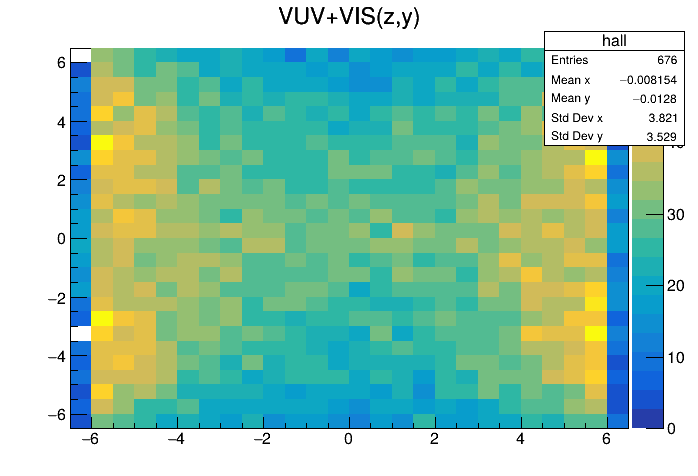
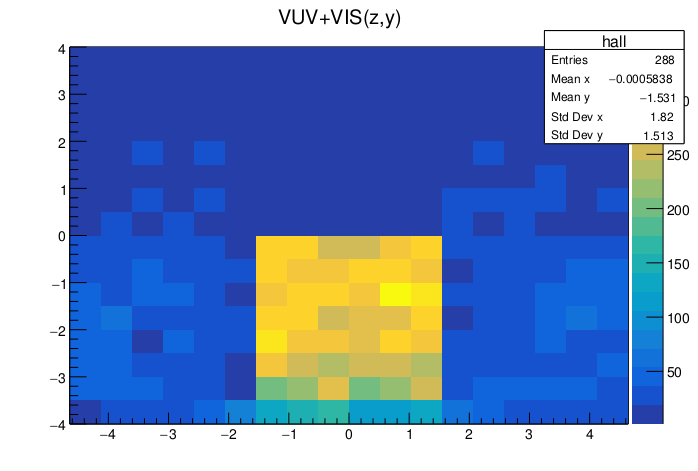
Adjust analysis logic for the new detector proportions

diff --git a/project/analysis/analysis.cpp b/project/analysis/analysis.cpp
@@ -8,15 +8,19 @@
 #include <vector>
 #include <TLegend.h>
 
-void analysis(std::string filename="../build/Data.root")
+void analysis(std::string filename="../build/Data_correct.root")
 {
     // Open file and get tree
     TFile *file = TFile::Open(filename.c_str());
     TTree *tree = (TTree*)file->Get("Primary_Hit");
 
-    // Create 2D histogram
-    TH2D *h2 = new TH2D("hvis","VIS(z,y)", 18, -4.5, 4.5, 16, -4, 4);
-    TH2D *h3 = new TH2D("huv","VUV(z,y)", 18, -4.5, 4.5, 16, -4, 4);
+    // Create 2D histogram for internal region
+    TH2D *hVisInt = new TH2D("hvis","VIS(z,y) - Internal", 18, -4.64103, 4.64103, 16, -4, 4);
+    TH2D *hUvInt = new TH2D("huv","VUV(z,y) - Internal",  18, -4.64103, 4.64103, 16, -4, 4);
+
+     // Create 2D histogram for external region
+    TH2D *hVisExt = new TH2D("hvis","VIS(z,y)  - External", 18, -4.272, 4.272, 16, -4, 4);
+    TH2D *hUvExt = new TH2D("huv","VUV(z,y) - External", 18, -4.272, 4.272, 16, -4, 4);
 
     // Fill the histogram
     Double_t z, y, f, f2;
@@ -27,50 +31,65 @@ void analysis(std::string filename="../build/Data.root")
 
     int number_files=1;
     float gain=40000.0/25000.0;
-    float ratio=5.0;
+    float ratio=1.0;
 
     Long64_t nentries = tree->GetEntries();
     for (Long64_t i=0; i<nentries; i++) 
     {
         tree->GetEntry(i);
 
-        if((z<(-1.547) || z>1.547))// && (y<(-3.5) || y<3.5) )
-        {
-            ratio=gain/number_files;
+        if((z>(-1.547) && z<1.547) && (y>(-3.5) && y<3.5))
+        {            
+            if(f>=1)
+            {
+                hVisInt->Fill(z, y,f*ratio);
+            }
+                
+            if(f2>=1) 
+            {
+                hUvInt->Fill(z,y,f2*ratio);
+            }
         }
         else
         {
-            ratio=1.0/number_files;
+            ratio = gain/number_files;
+            if(f>=1)
+            {
+                hVisExt->Fill(z, y,f*ratio);
+            }
+                
+            if(f2>=1) 
+            {
+                hUvExt->Fill(z,y,f2*ratio);
+            }
         }
-
-        if(f>=1)
-        {
-            h2->Fill(z, y,f*ratio);
-        }
-            
-        if(f2>=1) 
-        {
-            h3->Fill(z,y,f2*ratio);
-        } // fill with weight = f
     }
 
     // Draw heatmap
     TCanvas *c1 = new TCanvas();
-    h2->Draw("COLZ");  // COLZ = color map
-    c1->SaveAs("heatmapVIS.png");
+    hVisInt->Draw("COLZ");  // COLZ = color map
+    c1->SaveAs("heatmapVISInt.png");
 
     TCanvas *c2 = new TCanvas();
-    h3->Draw("COLZ");  // COLZ = color map
-    c2->SaveAs("heatmapUV.png");
+    hUvInt->Draw("COLZ");  // COLZ = color map
+    c2->SaveAs("heatmapUVInt.png");
+
+    TCanvas *c3 = new TCanvas();
+    hVisExt->Draw("COLZ");  // COLZ = color map
+    c3->SaveAs("heatmapVISExt.png");
+
+    TCanvas *c4 = new TCanvas();
+    hUvExt->Draw("COLZ");  // COLZ = color map
+    c4->SaveAs("heatmapUVExt.png");
 
    // --- Converter h2 para matriz ---
-    int nx = h2->GetNbinsX();
-    int ny = h2->GetNbinsY();
+    int nx = hVisExt->GetNbinsX();
+    int ny = hVisExt->GetNbinsY();
 
         // Criar histograma para o buffer
-    TH2D *h4 = new TH2D("hall","VUV+VIS(z,y)", nx, -4.5, 4.5, ny, -4, 4);
-    TH2D *hbuffer = new TH2D("hbuffer","UV/(UV+VIS)", nx, -4.5, 4.5, ny, -4, 4);
-    TH2D *hratio = new TH2D("hratio","UV/VIS", nx, -4.5, 4.5, ny, -4, 4);
+    TH2D *h4 = new TH2D("hall","VUV+VIS(z,y)", nx, -4.64103, 4.64103, ny, -4, 4);
+    TH2D *hbuffer = new TH2D("hbuffer","UV/(UV+VIS)", nx, -4.64103, 4.64103, ny, -4, 4);
+    TH2D *hratio = new TH2D("hratio","UV/VIS", nx, -4.64103, 4.64103, ny, -4, 4);
 
 
     std::vector<std::vector<double>> mat_uv(nx, std::vector<double>(ny,0));
@@ -88,18 +107,26 @@ void analysis(std::string filename="../build/Data.root")
     {
         for(int j=1; j<=ny; j++)
         {
-            mat_vis[i-1][j-1] = h2->GetBinContent(i,j);
-            mat_uv[i-1][j-1] = h3->GetBinContent(i,j);
+            if ((i > 6 && i < 13) && (j > 1 && j < ny)){
+                mat_vis[i-1][j-1] = hVisInt->GetBinContent(i,j);
+                mat_uv[i-1][j-1] = hUvInt->GetBinContent(i,j);
+            } else {
+                mat_vis[i-1][j-1] = hVisExt->GetBinContent(i,j);
+                mat_uv[i-1][j-1] = hUvExt->GetBinContent(i,j);
+            }
+            
             if(mat_vis[i-1][j-1]<cut_pe)
             {
                 mat_vis[i-1][j-1]=0;
             }
-             if(mat_uv[i-1][j-1]<cut_pe)
+            
+            if(mat_uv[i-1][j-1]<cut_pe)
             {
                 mat_uv[i-1][j-1]=0;
             }
+
             mat_all[i-1][j-1] = mat_uv[i-1][j-1] +  mat_vis[i-1][j-1];
-            buffer[i-1][j-1] = mat_uv[i-1][j-1]/(  mat_uv[i-1][j-1] + mat_vis[i-1][j-1] );
+            buffer[i-1][j-1] = mat_uv[i-1][j-1]/(mat_uv[i-1][j-1] + mat_vis[i-1][j-1] );
             myratio[i-1][j-1] = mat_uv[i-1][j-1]/(mat_vis[i-1][j-1] );
         }
     }
@@ -114,7 +141,6 @@ void analysis(std::string filename="../build/Data.root")
             h4->SetBinContent(i, j, mat_all[i-1][j-1]);
         }
     }
-
 
     int cont=0;
     for(int i=1; i<nx-1; i++)        
@@ -135,19 +161,19 @@ void analysis(std::string filename="../build/Data.root")
     std::cout << "MIN Light Yield: " << lightyield_min << std::endl;
 
     // Plotar
-    TCanvas *c3 = new TCanvas();
+    TCanvas *c5 = new TCanvas();
     hbuffer->GetZaxis()->SetRangeUser(0.0,1.0); // já que é uma fração
     hbuffer->Draw("COLZ");
-    c3->SaveAs("heatmapBuffer.png");
+    c5->SaveAs("heatmapBuffer.png");
 
-    TCanvas *c4 = new TCanvas();
+    TCanvas *c6 = new TCanvas();
     hratio->GetZaxis()->SetRangeUser(0.0,1.0); // já que é uma fração
     hratio->Draw("COLZ");
-    c4->SaveAs("heatmapRatio.png");
+    c6->SaveAs("heatmapRatio.png");
 
-    TCanvas *c5 = new TCanvas();
+    TCanvas *c7 = new TCanvas();
     h4->Draw("COLZ");  // COLZ = color map
-    c5->SaveAs("heatmapAll.png");
+    c7->SaveAs("heatmapAll.png");
 
     TH1D *h1d = new TH1D("hist_franc","Histogram Francesco", 100, 0 , 210 );
     for(int i=0; i<nx; i++)        
@@ -157,9 +183,9 @@ void analysis(std::string filename="../build/Data.root")
             h1d->Fill(mat_all[i][j]);
         }
     }
-    TCanvas *c6 = new TCanvas();
+    TCanvas *c8 = new TCanvas();
     h1d->Draw();  // COLZ = color map
-    c6->SaveAs("histFrancesco.png");
+    c8->SaveAs("histFrancesco.png");
 
    TH1D *h1dR = new TH1D("hist_R","R;R value;Entries", 200, -0.1 , 1.1 );
     for(int i=0; i<nx; i++)        
@@ -179,26 +205,24 @@ void analysis(std::string filename="../build/Data.root")
 
     for(int i=0; i<nx; i++)        
     {
-        for(int j=0; j<ny; j++)
+        for(int j=0; j<ny/2; j++)
         {
-            if(j<ny/2){
-                if(i>6 && i<(nx-6))
+            if(i>6 && i<(nx-6) && (j > 0) && (j < (ny-1))){
                 h1dRin->Fill(buffer[i][j]);
-                else {
-                    h1dRout->Fill(buffer[i][j]);
-                    if(buffer[i][j]>=out_cut)
-                    {
-                        out_cont_cut=out_cont_cut+1;
-                    }
-                    out_cont=out_cont+1;
-                }   
-            }    
+            } else {
+                h1dRout->Fill(buffer[i][j]);
+                if(buffer[i][j]>=out_cut)
+                {
+                    out_cont_cut=out_cont_cut+1;
+                }
+                out_cont=out_cont+1;
+            }
         }
     }
 
 
-    TCanvas *c7 = new TCanvas("c7","R distributions",800,600);
-    c7->SetGrid();
+    TCanvas *c9 = new TCanvas("c7","R distributions",800,600);
+    c9->SetGrid();
 
     h1dR->SetLineColor(kBlack);
     h1dR->SetLineWidth(2);
@@ -219,7 +243,7 @@ void analysis(std::string filename="../build/Data.root")
     leg->SetFillStyle(0);
     leg->Draw();
 
-    c7->SaveAs("histRATIO.png");
+    c9->SaveAs("histRATIO.png");
 
     std::cout << "efficiency: " << out_cont_cut/out_cont <<std::endl;
 
